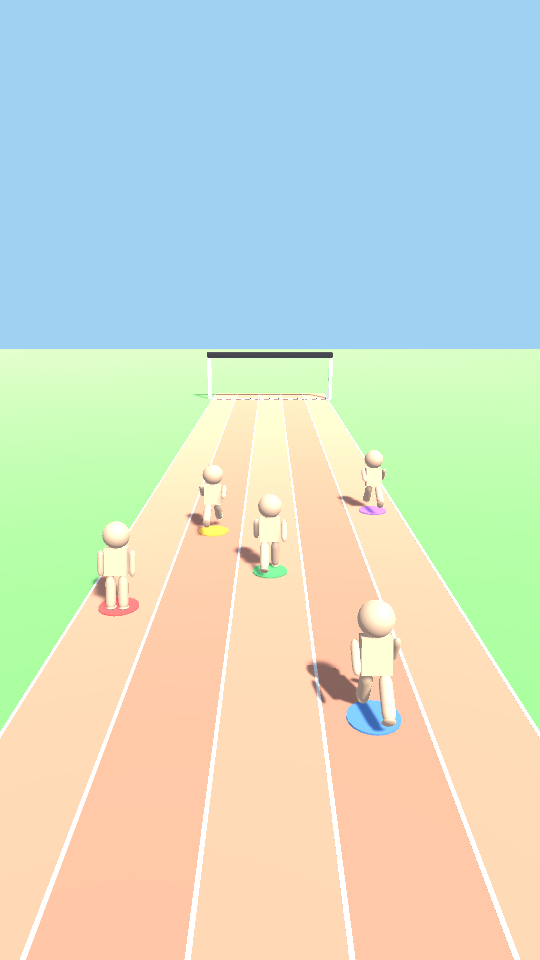
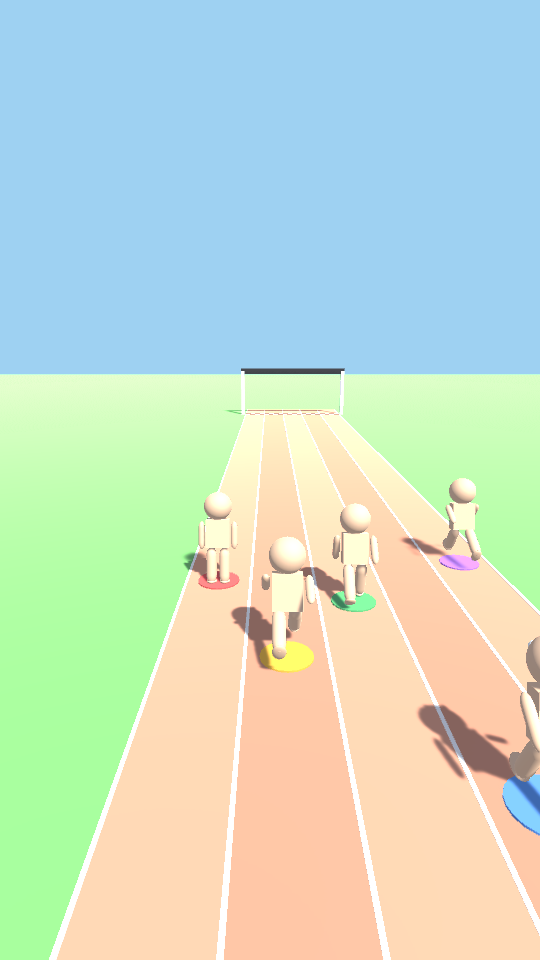
Kamera oyuncunun kulvarini kismen takip eder ve yakin durur; alt bolge icin arka plan kamerasi (hayalet yazi sorunu)

diff --git a/client/Assets/Scripts/Race/OnlineRaceView.cs b/client/Assets/Scripts/Race/OnlineRaceView.cs
@@ -11,8 +11,15 @@ namespace TextRun.Race
         const float FinishOvershoot = 4f;
 
         public int laneCount = 5;
-        public float laneWidth = 1.7f;
+        public float laneWidth = 1.4f;
         public float trackLength = 60f;
+
+        // Kamera oyuncuya yakın durur ve oyuncunun kulvarını takip eder; en uzak kulvar da görünsün diye genişlik buna göre hesaplanır.
+        static readonly Vector3 CameraOffset = new Vector3(0f, 5f, -11f);
+        const float CameraSideMargin = 1.0f;
+        // Kameranın oyuncunun kulvarına ne kadar kaydığı: 0 = hep pist ortası, 1 = tam oyuncunun üstü.
+        // Tam takipte kenar kulvarda ekranın yarısı boş çimen kalır; kısmi takip oyuncuyu merkeze yaklaştırır, pisti de yayar.
+        const float CameraFollowFactor = 0.6f;
 
         static readonly Color[] LaneColors =
         {
@@ -28,6 +35,7 @@ namespace TextRun.Race
         bool[] active;
         bool racing;
         int localSlot = 2;
+        float cameraX;
         Camera cam;
         RaceCamera raceCamera;
         GUIStyle nameStyle;
@@ -63,7 +71,20 @@ namespace TextRun.Race
             raceCamera = cam.GetComponent<RaceCamera>();
             if (raceCamera == null) raceCamera = cam.gameObject.AddComponent<RaceCamera>();
             raceCamera.enabled = false; // kamerayı bu sınıf kendisi hareket ettirir
-            raceCamera.Frame(0f);
+            raceCamera.offset = CameraOffset;
+            // En kenar kulvardaki oyuncu için kamera en fazla yarım pist * takip oranı kadar kayar; o durumda bile pistin öbür ucu görünmeli.
+            float halfTrack = (laneCount - 1) * laneWidth / 2f;
+            raceCamera.halfWidthToFit = halfTrack * (1f + CameraFollowFactor) + CameraSideMargin;
+            cameraX = TrackBuilder.LaneX(localSlot, laneCount, laneWidth) * CameraFollowFactor;
+            raceCamera.Frame(0f, cameraX);
+
+            // Ana kamera ekranın yalnızca üst bölgesini çizer; alt bölge (kelimeler, klavye) temizlenmezse eski kareler birikir.
+            // Bu yüzden tüm ekranı her kare koyu renkle temizleyen, hiçbir şey çizmeyen bir arka plan kamerası eklenir.
+            var background = new GameObject("Background Camera").AddComponent<Camera>();
+            background.clearFlags = CameraClearFlags.SolidColor;
+            background.backgroundColor = new Color(0.07f, 0.08f, 0.12f);
+            background.cullingMask = 0;
+            background.depth = cam.depth - 10f;
 
             RenderSettings.ambientMode = UnityEngine.Rendering.AmbientMode.Flat;
             RenderSettings.ambientLight = new Color(0.72f, 0.75f, 0.82f);
@@ -140,7 +161,13 @@ namespace TextRun.Race
                 runners[i].runSpeed = Mathf.Clamp(0.7f + speed / 8f, 0.7f, 1.8f);
             }
 
-            if (cam != null && raceCamera != null) raceCamera.Frame(currentZ[localSlot]);
+            if (cam != null && raceCamera != null)
+            {
+                // Kamera oyuncunun kulvarına yumuşakça kayar
+                float targetX = TrackBuilder.LaneX(localSlot, laneCount, laneWidth) * CameraFollowFactor;
+                cameraX = Mathf.Lerp(cameraX, targetX, 1f - Mathf.Exp(-6f * Time.deltaTime));
+                raceCamera.Frame(currentZ[localSlot], cameraX);
+            }
         }
 
         void SetPosition(int lane, float z)
@@ -183,7 +210,8 @@ namespace TextRun.Race
                 runners[i].state = running ? CharacterState.Run : CharacterState.Idle;
                 runners[i].Pose(i * 1.3f);
             }
-            raceCamera.Frame(currentZ[localSlot]);
+            cameraX = TrackBuilder.LaneX(localSlot, laneCount, laneWidth) * CameraFollowFactor;
+            raceCamera.Frame(currentZ[localSlot], cameraX);
         }
 
         public void SetAllActive(string[] playerNames, int local)

diff --git a/client/Assets/Scripts/Race/RaceCamera.cs b/client/Assets/Scripts/Race/RaceCamera.cs
@@ -2,15 +2,15 @@ using UnityEngine;
 
 namespace TextRun.Race
 {
-    // Pistin arkasında, hafif yukarıdan bakan takip kamerası. Tüm kulvarlar görünür.
-    // Görüş açısı, çizilen bölgenin en/boy oranına göre ayarlanır: dikey (portre) ekranda da beş kulvar yana taşmaz.
+    // Pistin arkasında, hafif yukarıdan bakan takip kamerası.
+    // Görüş açısı, çizilen bölgenin en/boy oranına göre ayarlanır: dikey (portre) ekranda da kulvarlar yana taşmaz.
     public class RaceCamera : MonoBehaviour
     {
         public Vector3 offset = new Vector3(0f, 6.5f, -15f);
         public Vector3 lookAhead = new Vector3(0f, 0.8f, 6f);
         // Geniş ekranlarda kullanılan en küçük dikey görüş açısı
         public float fieldOfView = 42f;
-        // Pistin ortadan her iki yana görünmesi gereken genişliği (metre): kulvarlar + kenar boşluğu
+        // Kameranın ortasından her iki yana görünmesi gereken genişlik (metre)
         public float halfWidthToFit = 6.4f;
         public float maxFieldOfView = 85f;
 
@@ -21,10 +21,11 @@ namespace TextRun.Race
             if (target != null) Frame(target.position.z);
         }
 
-        public void Frame(float z)
+        // z: kameranın baktığı koşucunun mesafesi, x: kameranın yana kayması (oyuncunun kulvarını takip etmek için)
+        public void Frame(float z, float x = 0f)
         {
-            transform.position = new Vector3(offset.x, offset.y, z + offset.z);
-            transform.LookAt(new Vector3(lookAhead.x, lookAhead.y, z + lookAhead.z));
+            transform.position = new Vector3(x + offset.x, offset.y, z + offset.z);
+            transform.LookAt(new Vector3(x + lookAhead.x, lookAhead.y, z + lookAhead.z));
 
             var cam = GetComponent<Camera>();
             float horizontalHalf = Mathf.Atan(halfWidthToFit / Mathf.Abs(offset.z));

diff --git a/client/Assets/Scripts/Editor/OnlineTools.cs b/client/Assets/Scripts/Editor/OnlineTools.cs
@@ -150,8 +150,9 @@ namespace TextRun.EditorTools
             EditorSceneManager.NewScene(NewSceneSetup.DefaultGameObjects, NewSceneMode.Single);
             var view = new GameObject("View").AddComponent<OnlineRaceView>();
             view.Build();
-            view.SetAllActive(new[] { "Ali", "Bot 1", "Sen", "Bot 2", "Bot 3" }, 2);
-            view.SnapPositions(new[] { 26f, 31f, 28f, 22f, 33f }, true);
+            // Oyuncu en sol kulvarda ve önde: kamera bu durumda da oyuncuyu net göstermeli
+            view.SetAllActive(new[] { "Sen", "Bot 1", "Bot 2", "Bot 3", "Bot 4" }, 0);
+            view.SnapPositions(new[] { 30f, 27f, 29f, 24f, 31f }, true);
 
             string path = "online-preview.png";
             var args = Environment.GetCommandLineArgs();
@@ -170,7 +171,7 @@ namespace TextRun.EditorTools
 
             // Görüş açısı çizim boyutunun oranına göre hesaplanır; boyut belli olduktan sonra kamerayı yeniden konumlandır.
             var raceCamera = cam.GetComponent<RaceCamera>();
-            raceCamera.Frame(raceCamera.transform.position.z - raceCamera.offset.z);
+            raceCamera.Frame(raceCamera.transform.position.z - raceCamera.offset.z, raceCamera.transform.position.x - raceCamera.offset.x);
             cam.Render();
             RenderTexture.active = rt;
             var tex = new Texture2D(rt.width, rt.height, TextureFormat.RGB24, false);
